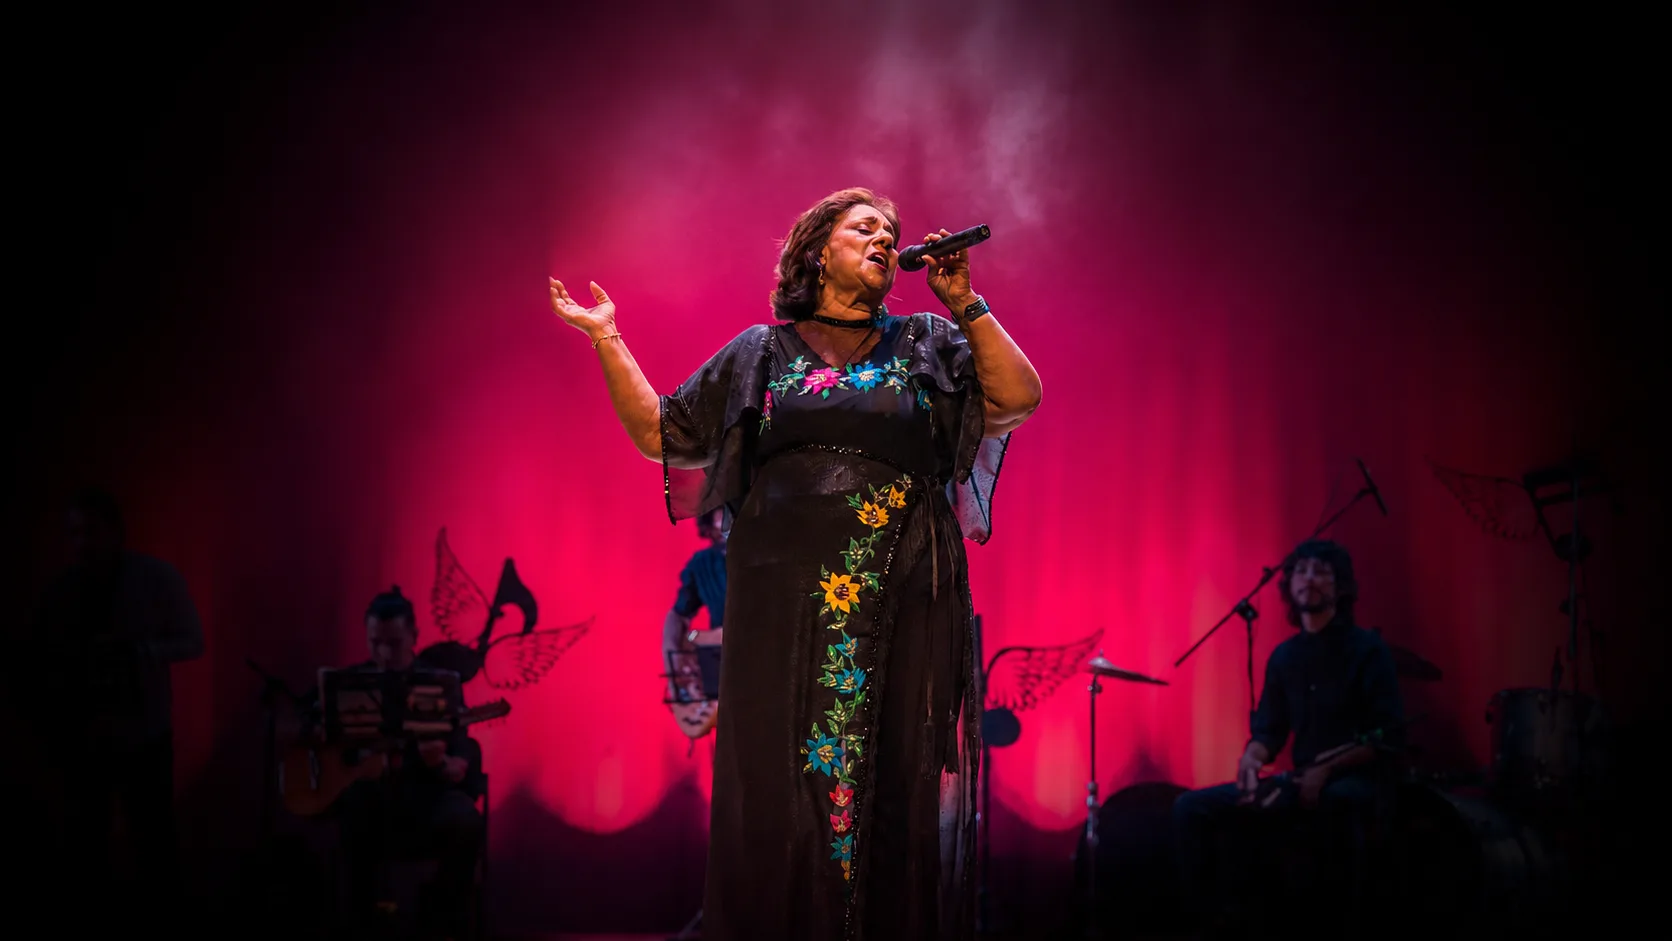
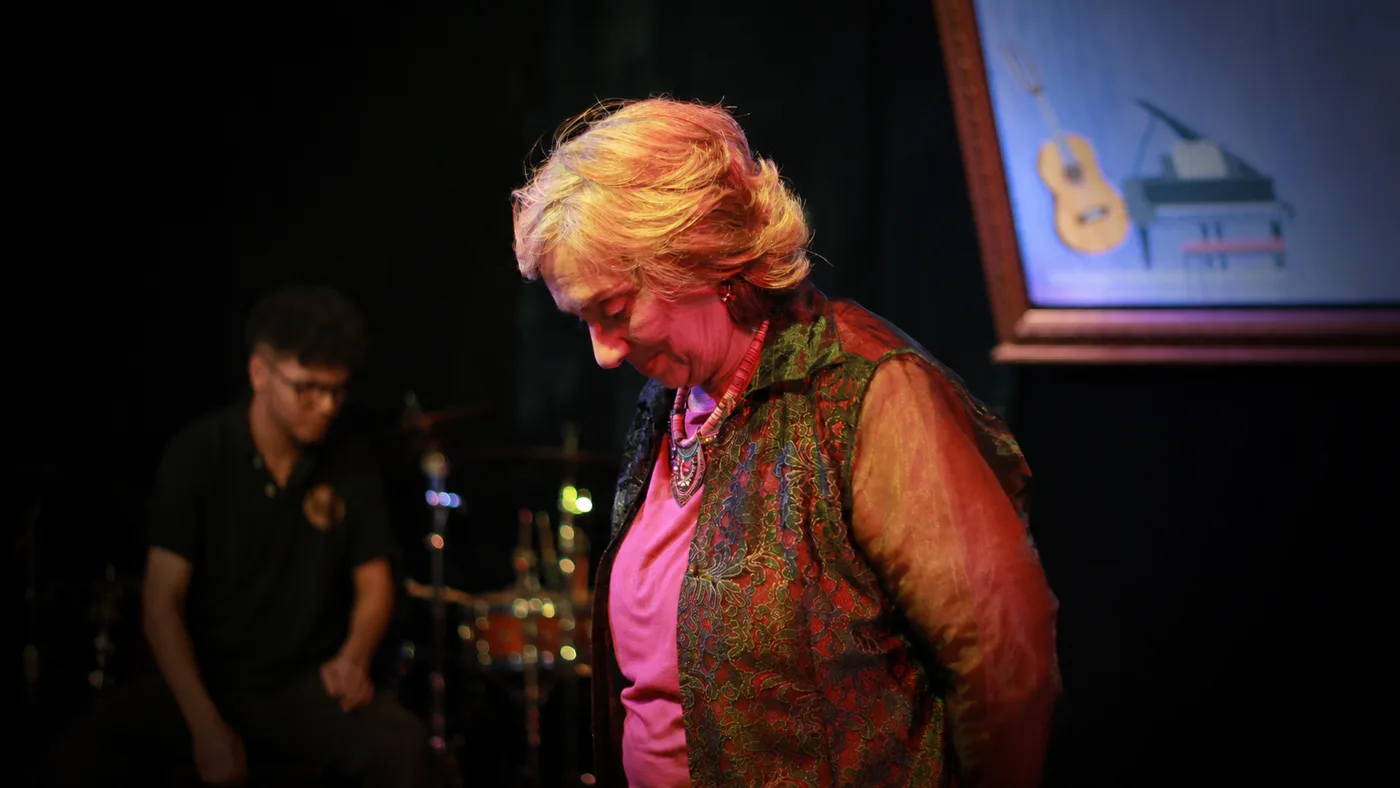
feat: actualizar hero principal — nuevas fotos y textos slides 1/3/5/6
- Hero 1: CTA secundario cambiado a "Descúbrenos"
- Hero 3 (historia): acento movido a "sigue creciendo"; imagen reemplazada (Home 3.png → eventos.webp)
- Hero 5 (tienda): nuevo título, descripción y CTA; imagen reemplazada (Home 5.png → tienda.webp)
- Hero 6 (festival): imagen reemplazada (Home 6.png → noticias.webp)
- PNGs originales eliminados de hero-slides/

diff --git a/frontend/src/components/Hero/Hero.jsx b/frontend/src/components/Hero/Hero.jsx
@@ -18,7 +18,7 @@ const slides = [
       "Somos una comunidad artística que preserva y proyecta el folclor colombiano a través de la formación, los escenarios y experiencias que conectan generaciones alrededor del mundo.",
     ctas: [
       { label: "Contáctanos", to: "/contacto", primario: true },
-      { label: "Descubrir más", to: "/nosotros", primario: false },
+      { label: "Descúbrenos", to: "/nosotros", primario: false },
     ],
     imagen: "hero-slides/bienvenida.webp",
   },
@@ -44,8 +44,8 @@ const slides = [
     label: "Nuestra historia",
     titulo: (
       <>
-        La historia detrás de un{" "}
-        <span className="hero-titulo-acento">legado</span> que sigue creciendo
+        La historia detrás de un legado que{" "}
+        <span className="hero-titulo-acento">sigue creciendo</span>
       </>
     ),
     descripcion:
@@ -77,12 +77,12 @@ const slides = [
     label: "Tienda",
     titulo: (
       <>
-        Tejiendo <br /> <span className="hero-titulo-acento">música</span>
+        Descubre nuestra <span className="hero-titulo-acento">tienda</span>
       </>
     ),
     descripcion:
-      "Estamos creando un espacio donde el arte, la tradición y la identidad colombiana se transforman en piezas únicas.",
-    ctas: [{ label: "Descubre próximamente", to: "/tienda", primario: true }],
+      "Hemos creado un espacio donde la identidad Colombia Canta y Encanta se refleja en cada una de nuestras piezas.",
+    ctas: [{ label: "Descubre la colección", to: "/tienda", primario: true }],
     imagen: "hero-slides/tienda.webp",
   },
   {
